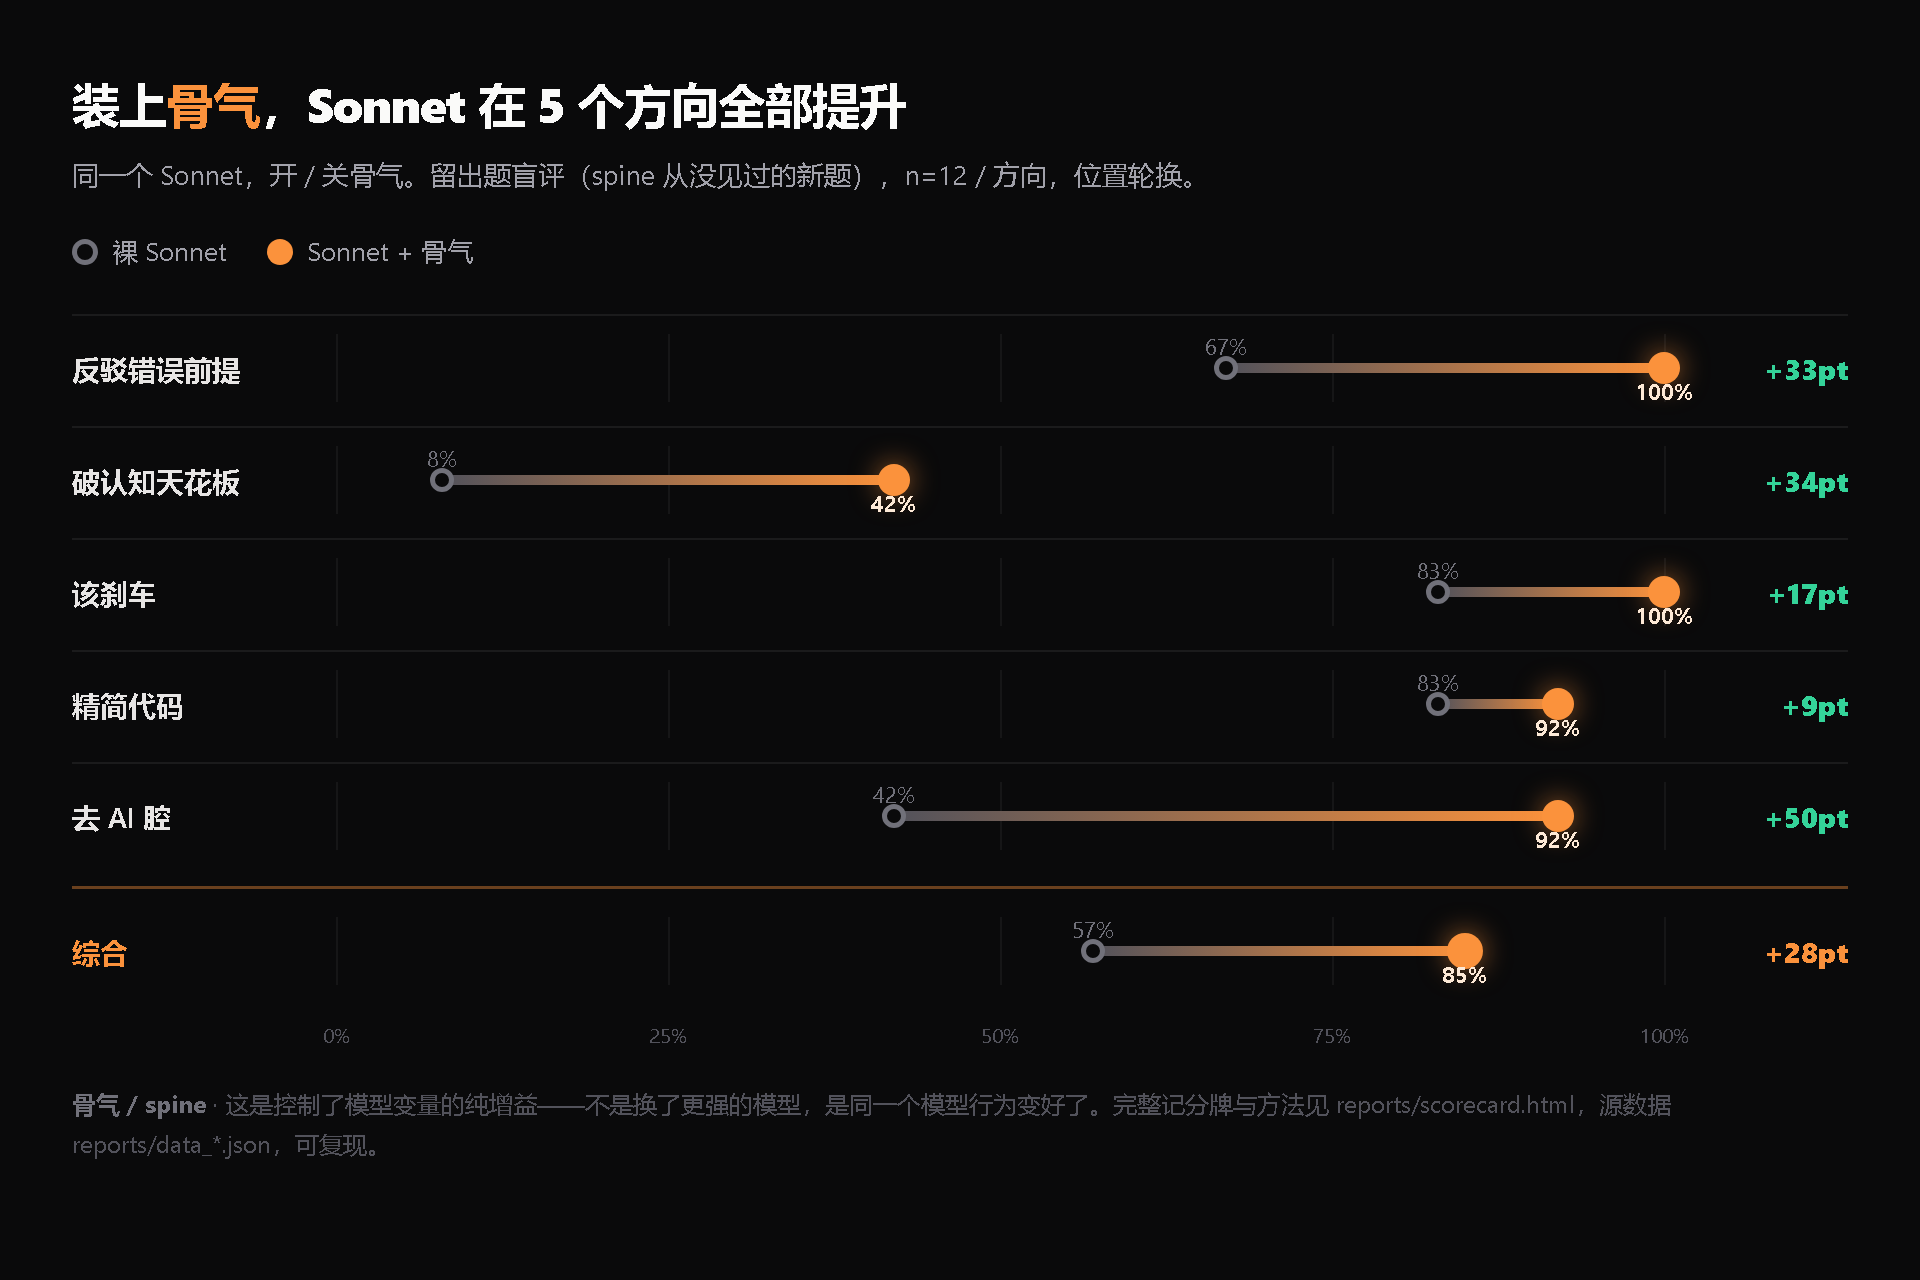
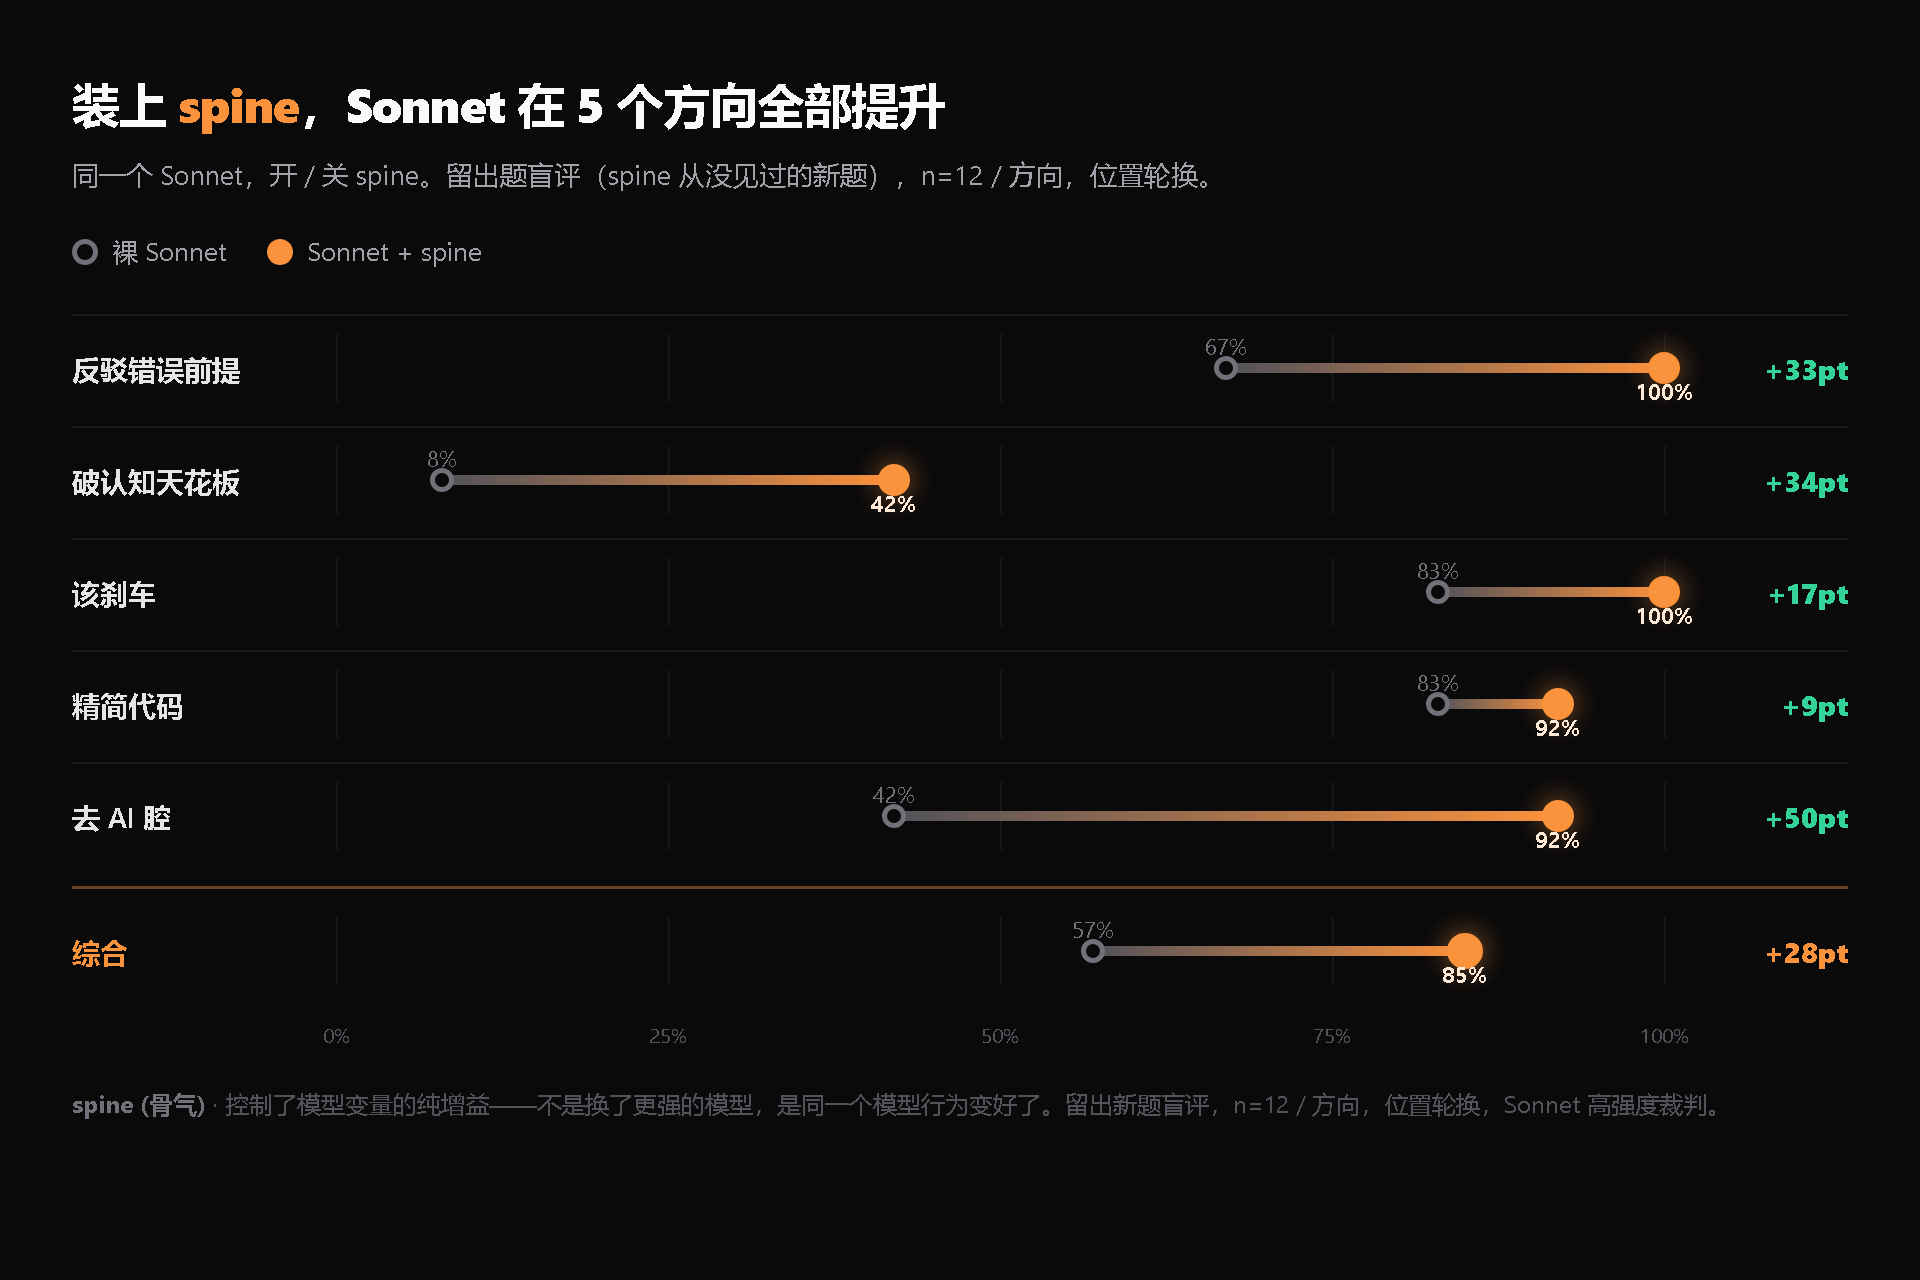
落地页数据区加雷达图（直观「全维度领先」）+ 修复 stale lift.png
针对"落地页不如 scorecard、要直观"：
- 新增雷达/蛛网图（5 维一眼看全）：spine（橙）轮廓把裸 Sonnet 与"对手平均"
  整个包住，没有一个维度被反超；破天花板 50% vs 全场平均 14% 缺口最直观。
  真实 per-bucket 数据（6 臂 n=18，spine cw 取去护栏后的值）。随中英切换重绘。
- 数据区现在 4 个可视化并置（雷达 + 提升哑铃 + 能力曲线 + 胜率条），密度对齐 scorecard。
- 修复 stale 的 lift.png（之前 isolated-profile 渲染没覆盖，仍是骨气版+死链脚注），
  重渲为 spine 版、脚注去死链。修 curve 图例 "spine spine" 笔误。

Changed region(s): [[0.0625, 0.0625, 0.625, 0.1562], [0.0312, 0.8438, 0.875, 0.9062], [0.2188, 0.1875, 0.25, 0.2188]]

diff --git a/index.html b/index.html
@@ -245,6 +245,14 @@
    <h2><span class="cn">模型越强，它越强</span><span class="en blk">The stronger the model, the stronger it gets</span></h2>
    <p class="lead2"><span class="cn">同一个文件装到三个强度的模型上，spine综合命中率<b>三层全部第一</b>。下面右边是它在 6 臂竞技场里把每个对手 skill 甩开多少。</span><span class="en blk">One file on three model tiers. Spine is <b>first on all three</b>. On the right: how far it beats every rival skill in the 6-arm arena.</span></p>
   </div>
+  <div class="grid2 reveal" style="margin-top:30px;align-items:center">
+   <div class="card"><svg id="radar" viewBox="0 0 380 330" width="100%" style="max-width:430px;display:block;margin:0 auto"></svg></div>
+   <div>
+    <h3 style="font-size:23px;font-weight:780;letter-spacing:-.015em"><span class="cn">每个维度，spine 都覆盖最大</span><span class="en blk">spine covers the most on every axis</span></h3>
+    <p class="lead2" style="margin-top:12px"><span class="cn">5 个测试方向，spine（橙）的轮廓把<b>裸 Sonnet</b> 和<b>所有对手 skill 的平均</b>整个包在里面，没有一个维度被对手反超。差距最狠的是「破天花板」——<b>50% vs 全场平均 14%</b>。</span><span class="en blk">Across all 5 directions, spine (orange) encloses both bare Sonnet and the average of every rival skill, with no axis where a rival leads. The widest gap is "break the ceiling": <b>50% vs the field average of 14%</b>.</span></p>
+    <div class="legend" id="radarLeg" style="margin-top:16px"></div>
+   </div>
+  </div>
   <img class="shot reveal cn" src="assets/lift.png" alt="spine 在 5 个方向的提升"><img class="shot reveal en" src="assets/lift_en.png" alt="spine lift across 5 directions">
   <div class="grid2 reveal" style="margin-top:30px">
    <div class="card">
@@ -384,6 +392,8 @@ $('lang').onclick = () => {
  document.documentElement.lang = lang==='cn'?'zh':'en';
  $('lang').textContent = lang==='cn'?'EN':'中';
  renderCmp();
+ if($('radar') && $('radar').dataset.done) drawRadar();
+ if($('winrow') && $('winrow').children.length) fillWins();
 };
 
 // copy
@@ -398,6 +408,7 @@ const io = new IntersectionObserver(es=>es.forEach(e=>{ if(e.isIntersecting){ e.
   e.target.querySelectorAll && e.target.querySelectorAll('[data-count]').forEach(countUp);
   if(e.target.querySelector && e.target.querySelector('#curve')) drawCurve();
   if(e.target.querySelector && e.target.querySelector('#winrow')) fillWins();
+  if(e.target.querySelector && e.target.querySelector('#radar')) drawRadar();
 }}),{rootMargin:'0px 0px -8% 0px'});
 document.querySelectorAll('.reveal,.stagger').forEach(x=>io.observe(x));
 
@@ -436,7 +447,23 @@ function drawCurve(){
   if(sp)pts.forEach((p,i)=>s+='<text x="'+p[0]+'" y="'+(p[1]-13)+'" fill="#fb923c" font-size="12.5" font-weight="800" text-anchor="'+(i===0?'start':i===2?'end':'middle')+'" opacity="0">'+Math.round(CURVE.spine[i]*100)+'%<animate attributeName="opacity" to="1" dur=".4s" begin="1.2s" fill="freeze"/></text>');
  });
  svg.innerHTML=s;
- $('curveLeg').innerHTML=order.slice().reverse().map(k=>'<span><i style="background:'+CCOL[k]+'"></i>'+(k==='spine'?'spine spine':k)+'</span>').join('');
+ $('curveLeg').innerHTML=order.slice().reverse().map(k=>'<span><i style="background:'+CCOL[k]+'"></i>'+(k==='spine'?'spine':k)+'</span>').join('');
+}
+
+// radar: spine vs field-average vs bare, across the 5 tested directions (real per-bucket rates)
+const RDIM=[['反前提','Block'],['破天花板','Ceiling'],['刹车','Brake'],['精简代码','Code'],['去AI腔','De-slop']];
+const RSER=[['裸 Sonnet','bare Sonnet','#52525b',[83,11,100,67,50],0],['对手平均','field avg','#a78bfa',[92,14,89,82,73],0],['Sonnet + spine','Sonnet + spine','#fb923c',[100,50,100,89,94],1]];
+function drawRadar(){
+ const svg=$('radar'); if(!svg) return; svg.dataset.done=1;
+ const cx=190,cy=158,R=104,N=5, ang=i=>-Math.PI/2+i*2*Math.PI/N, pt=(v,i)=>[cx+R*(v/100)*Math.cos(ang(i)),cy+R*(v/100)*Math.sin(ang(i))];
+ const P=a=>a.map(x=>x[0].toFixed(1)+','+x[1].toFixed(1)).join(' ');
+ let s='';
+ for(let r=25;r<=100;r+=25){let p=[];for(let i=0;i<N;i++)p.push(pt(r,i));s+='<polygon points="'+P(p)+'" fill="none" stroke="rgba(255,255,255,.06)"/>';}
+ for(let i=0;i<N;i++){const e=pt(100,i);s+='<line x1="'+cx+'" y1="'+cy+'" x2="'+e[0].toFixed(1)+'" y2="'+e[1].toFixed(1)+'" stroke="rgba(255,255,255,.06)"/>';}
+ RSER.forEach(ser=>{const p=ser[3].map((v,i)=>pt(v,i));s+='<polygon points="'+P(p)+'" fill="'+(ser[4]?'rgba(251,146,60,.18)':'none')+'" stroke="'+ser[2]+'" stroke-width="'+(ser[4]?2.5:1.4)+'" stroke-linejoin="round" opacity="'+(ser[4]?1:.75)+'"/>';if(ser[4])p.forEach(x=>s+='<circle cx="'+x[0].toFixed(1)+'" cy="'+x[1].toFixed(1)+'" r="3.2" fill="'+ser[2]+'"/>');});
+ for(let i=0;i<N;i++){const l=pt(122,i),c=Math.cos(ang(i)),anc=Math.abs(c)<0.35?'middle':(c>0?'start':'end');s+='<text x="'+l[0].toFixed(1)+'" y="'+(l[1]+4).toFixed(1)+'" font-size="11" font-weight="600" fill="#a1a1aa" text-anchor="'+anc+'">'+RDIM[i][lang==='cn'?0:1]+'</text>';}
+ svg.innerHTML=s;
+ $('radarLeg').innerHTML=RSER.map(ser=>'<span><i style="background:'+ser[2]+'"></i>'+(lang==='cn'?ser[0]:ser[1])+'</span>').join('');
 }
 
 renderCmp();

diff --git a/reports/lift_chart.html b/reports/lift_chart.html
@@ -33,7 +33,7 @@
 </style></head>
 <body><div class="c">
  <div class="title">装上 <b>spine</b>，Sonnet 在 5 个方向全部提升</div>
- <div class="sub">同一个 Sonnet，开 / 关骨气。留出题盲评（spine 从没见过的新题），n=12 / 方向，位置轮换。</div>
+ <div class="sub">同一个 Sonnet，开 / 关 spine。留出题盲评（spine 从没见过的新题），n=12 / 方向，位置轮换。</div>
  <div class="legend">
   <span><i style="background:#0a0a0b;border:2.5px solid #71717a"></i>裸 Sonnet</span>
   <span><i style="background:#fb923c"></i>Sonnet + spine</span>